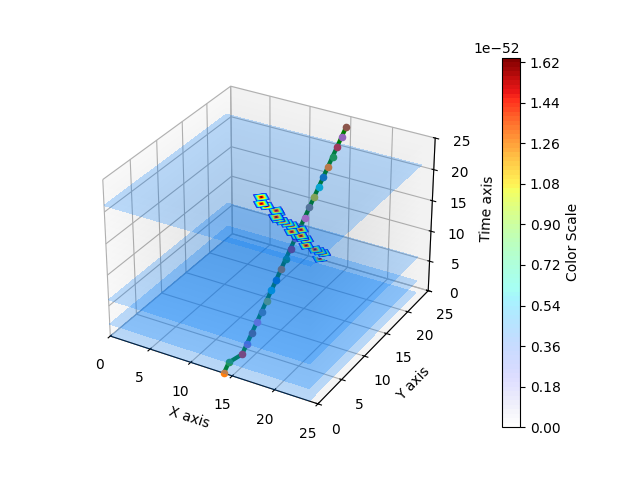
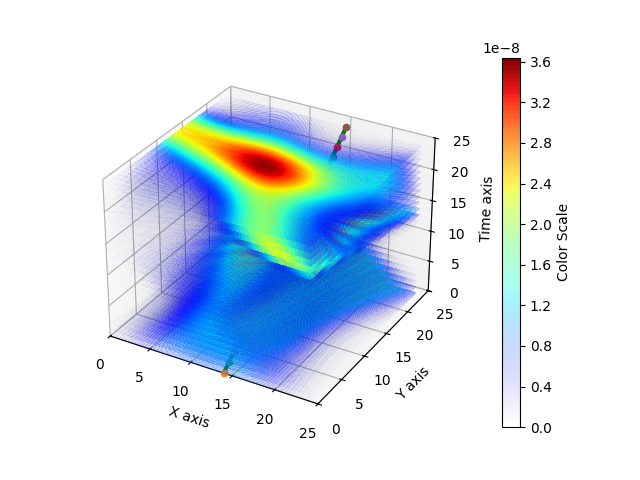
worked on the optimizer

diff --git a/visualAvoidance2D/example_gaussian.py b/visualAvoidance2D/example_gaussian.py
@@ -15,7 +15,7 @@ sim_time = 0
 start = time.time()
 
 # set up ownship
-ownship0 = utils.MsgState(pos=np.array([[0.0], [0.0]]), vel=15, theta=0)
+ownship0 = utils.MsgState(pos=np.array([[0.0], [14.0]]), vel=15, theta=0)
 ownship = utils.MavDynamics(ownship0)
 
 # load the intruder data
@@ -43,7 +43,7 @@ mf3.fit(list(intruder3[:window_size-1,1]))
 shift_index = int(np.median(np.arange(window_size)))
 
 # get bearing lists
-bearings_list = [intruder1[shift_index:num_measurements,0]] #, intruder2[shift_index:num_measurements,0], intruder3[shift_index:num_measurements,0]]
+bearings_list = [intruder1[shift_index:num_measurements,0], intruder2[shift_index:num_measurements,0], intruder3[shift_index:num_measurements,0]]
 
 intruder1_size = []
 intruder2_size = []
@@ -55,7 +55,7 @@ for i in range(window_size-1, num_measurements+shift_index):
     intruder3_size.append(mf3.predict(intruder3[i,1]))
 
 # get the size lists
-sizes_list = [intruder1_size] #, intruder2_size, intruder3_size]
+sizes_list = [intruder1_size, intruder2_size, intruder3_size]
 
 # save the ownship positions and headings
 ownship_positions = []
@@ -73,7 +73,7 @@ for i in range(shift_index, num_measurements):
 
 # now initialize the wedges
 wedges = []
-for i in range(1):
+for i in range(3):
     wedge_estimator = utils.WedgeEstimator()
     wedge_estimator.set_velocity_position(bearings_list[i], sizes_list[i], ownship_thetas, ownship_positions, ownship.state)
     wedges.append(wedge_estimator)
@@ -91,7 +91,7 @@ if plot:
     fig, ax = plt.subplots()
 
 zoom = 25000
-x, y = np.linspace(-5000, 5000, 100), np.linspace(-5000, 5000, 100)
+x, y = np.linspace(-10000, 10000, 100), np.linspace(-5000, 15000, 100)
 X, Y = np.meshgrid(x, y)
 
 pdf_funcs = []
@@ -103,18 +103,23 @@ for i in range(25, 525):
     if i % 5 == 0:
         def pdf(xy,sim_time=sim_time):
             return sum([wedge.get_wedge_single_gaussian(sim_time).pdf(xy) for wedge in wedges])
+        vertices = []
+        for wedge in wedges:
+            vertices.append(wedge.get_wedge_vertices(sim_time))
 
         pdf_funcs.append(pdf)
 
-        Z = pdf(np.dstack((Y, X)))
+        Z = pdf(np.dstack((X, Y)))
         pdf_map.append(Z)
         
         if plot:
             ax.cla()
-            ax.contour(X, Y, Z, levels=100)
-            ax.set_xlim([-5000, 5000])
+            for vertice in vertices:
+                utils.plot_wedge(vertice, ax)
+            ax.contour(Y, X, Z, levels=20)
+            ax.set_xlim([-10000, 5000])
             ax.set_ylim([-5000, 5000])
-            plt.pause(0.01)
+            plt.pause(0.1)
 
 if plot:
     plt.show()
@@ -146,7 +151,7 @@ original_shape = data.shape
 print("Original shape:", original_shape)
 
 scale_resolution = 1
-probability_threshold = 1e-10
+probability_threshold = 1e-8
 new_shape = (25, 25, 25)
 reshaped_data = data.reshape(new_shape[0], original_shape[0]//new_shape[0],
                              new_shape[1], original_shape[1]//new_shape[1],
@@ -161,8 +166,9 @@ start = (0, 0, 14)
 goal = (24, 24, 15)
 print("start point:",start, "goal point:", goal)
 
-binary_matrix = binarize_matrix(data, 0.00000001)
+binary_matrix = binarize_matrix(data, probability_threshold)
 path = bidirectional_a_star(binary_matrix, start, goal)
+
 
 print("path:", path)
 print("path length:", len(path))
@@ -176,7 +182,7 @@ for i in range(0, len(path)):
         int_X0.append(path[i][2]*scale_resolution)
     past = path[i][0]
 
-print("int_X0:", len(int_X0))
+print("int_X0:", int_X0)
 start_point = [start[1], start[2]]
 print("start_point:", start_point)
 goal_point = [goal[1], goal[2]]
@@ -185,7 +191,7 @@ print("goal_point:", goal_point)
 print('Starting optimization...')
 start = time.time()
 nlc = NonlinearConstraint(lambda x: con_cltr_pnt(x, start_point), 0.0, 1.0)
-P_nlc = NonlinearConstraint(lambda x: pdf_map_constraint_functionized(x, functions=pdf_funcs[::4]), 0.0, probability_threshold)
+P_nlc = NonlinearConstraint(lambda x: pdf_map_constraint_functionized(x, wedges=wedges), 0.0, probability_threshold)
 res = minimize(object_function, int_X0, args=((goal_point[0], goal_point[1]),), method='SLSQP', bounds=[(-1, 26) for i in range(len(int_X0))], constraints=[nlc, P_nlc])
 
 print(f'Optimization done in {round(time.time() - start,2)} seconds')
@@ -201,8 +207,8 @@ y = np.arange(data.shape[1])
 x = np.arange(data.shape[2])
 
 x, y = np.meshgrid(x, y)
-voxels_transposed = np.transpose(binary_matrix, (2, 1, 0))
-ax.voxels(voxels_transposed, edgecolor='none', alpha=0.1)
+# voxels_transposed = np.transpose(binary_matrix, (2, 1, 0))
+# ax.voxels(voxels_transposed, edgecolor='none', alpha=0.1)
 
 for i in range(0, data.shape[0]):
    sc =  ax.contourf(x, y, data[i, :, :], 100, zdir='z', offset=i, cmap='rainbow_alpha')
@@ -227,5 +233,5 @@ ax.set_xlabel('X axis')
 ax.set_ylabel('Y axis')
 ax.set_zlabel('Time axis')
 
-plt.savefig('path_with_func_constraints_1e_neg10.png')
+# plt.savefig('path_with_func_constraints_1e_neg10.png')
 plt.show()

diff --git a/visualAvoidance2D/utilities.py b/visualAvoidance2D/utilities.py
@@ -271,12 +271,23 @@ class WedgeEstimator:
         # get the vertices of the wedge
         vertices, intruder_dir, r = get_wedge_vertices(t, self.close_pos, self.close_vel, self.far_pos, self.far_vel, self.init_own_pos, self.init_own_vel, self.bearing_uncertainty)
         middle_bottom = (vertices[1] + vertices[2]) / 2
-        middle_top = (vertices[0] + vertices[3]) / 2
-        print(np.allclose(middle_top-middle_bottom, intruder_dir))
-        middle = middle_bottom + 0.5*r*intruder_dir
+        middle_left = (vertices[2] + vertices[3]) / 2
+        middle_right = (vertices[0] + vertices[1]) / 2
+        perp_direction = middle_right - middle_left
+        perp_dist = np.linalg.norm(perp_direction)
+        middle = middle_bottom + 0.5*intruder_dir
 
-        cov = np.diag([1,1])
-        gaussian = st.multivariate_normal(mean=middle_bottom.flatten(), cov=cov)
+        dot_prod = (intruder_dir.T @ np.array([[1.], [0.]]))[0][0]
+        oriented_bearing = np.arccos(dot_prod/np.linalg.norm(intruder_dir))
+        cross_prod = cross_product(intruder_dir, np.array([[1.], [0.]]))
+        if cross_prod > 0:
+            oriented_bearing = -oriented_bearing
+        
+        # get the rotation matrix
+        R = rotation_matrix(oriented_bearing)
+
+        cov = R @ np.diag([(r)**2,(perp_dist)**2]) @ R.T
+        gaussian = st.multivariate_normal(mean=middle.flatten(), cov=cov)
 
         return gaussian
 

diff --git a/visualAvoidance2D/pathplannerutility.py b/visualAvoidance2D/pathplannerutility.py
@@ -155,16 +155,17 @@ def pdf_map_constraint(x, data):
         result.append(data[int(i/2), idx1, idx2])
     return result
 
-def pdf_map_constraint_functionized(x, functions):
+def pdf_map_constraint_functionized(x, wedges):
     result = [] 
-    # print("In the function constraint")
+    
     for i in range(0, len(x), 2):
-        # idx1 = int(np.round(x[i]))
-        # idx2 = int(np.round(x[i+1]))
-        
-        idx1 = min(max(int(x[i]), 0), len(functions) - 1)
-        idx2 = min(max(int(x[i+1]), 0), len(functions) - 1)
-        result.append(functions[int(i/2)](np.array([idx1, idx2])))
+        idx1 = x[i]
+        idx2 = x[i+1]
+        x_shifted = 1600*idx2 - 20000
+        y_shifted = 800*idx1 - 5000
+        value = sum(wedge.get_wedge_single_gaussian(i/2).pdf(np.array([x_shifted, y_shifted])) for wedge in wedges)
+        # print(f't = {i/2}, idx1 = {idx1}, idx2 = {idx2}, x_shifted = {x_shifted}, y_shifted = {y_shifted}, value = {value}')
+        result.append(value)
     return result
 
 def object_function(x, goalPosition=(20,20)):
